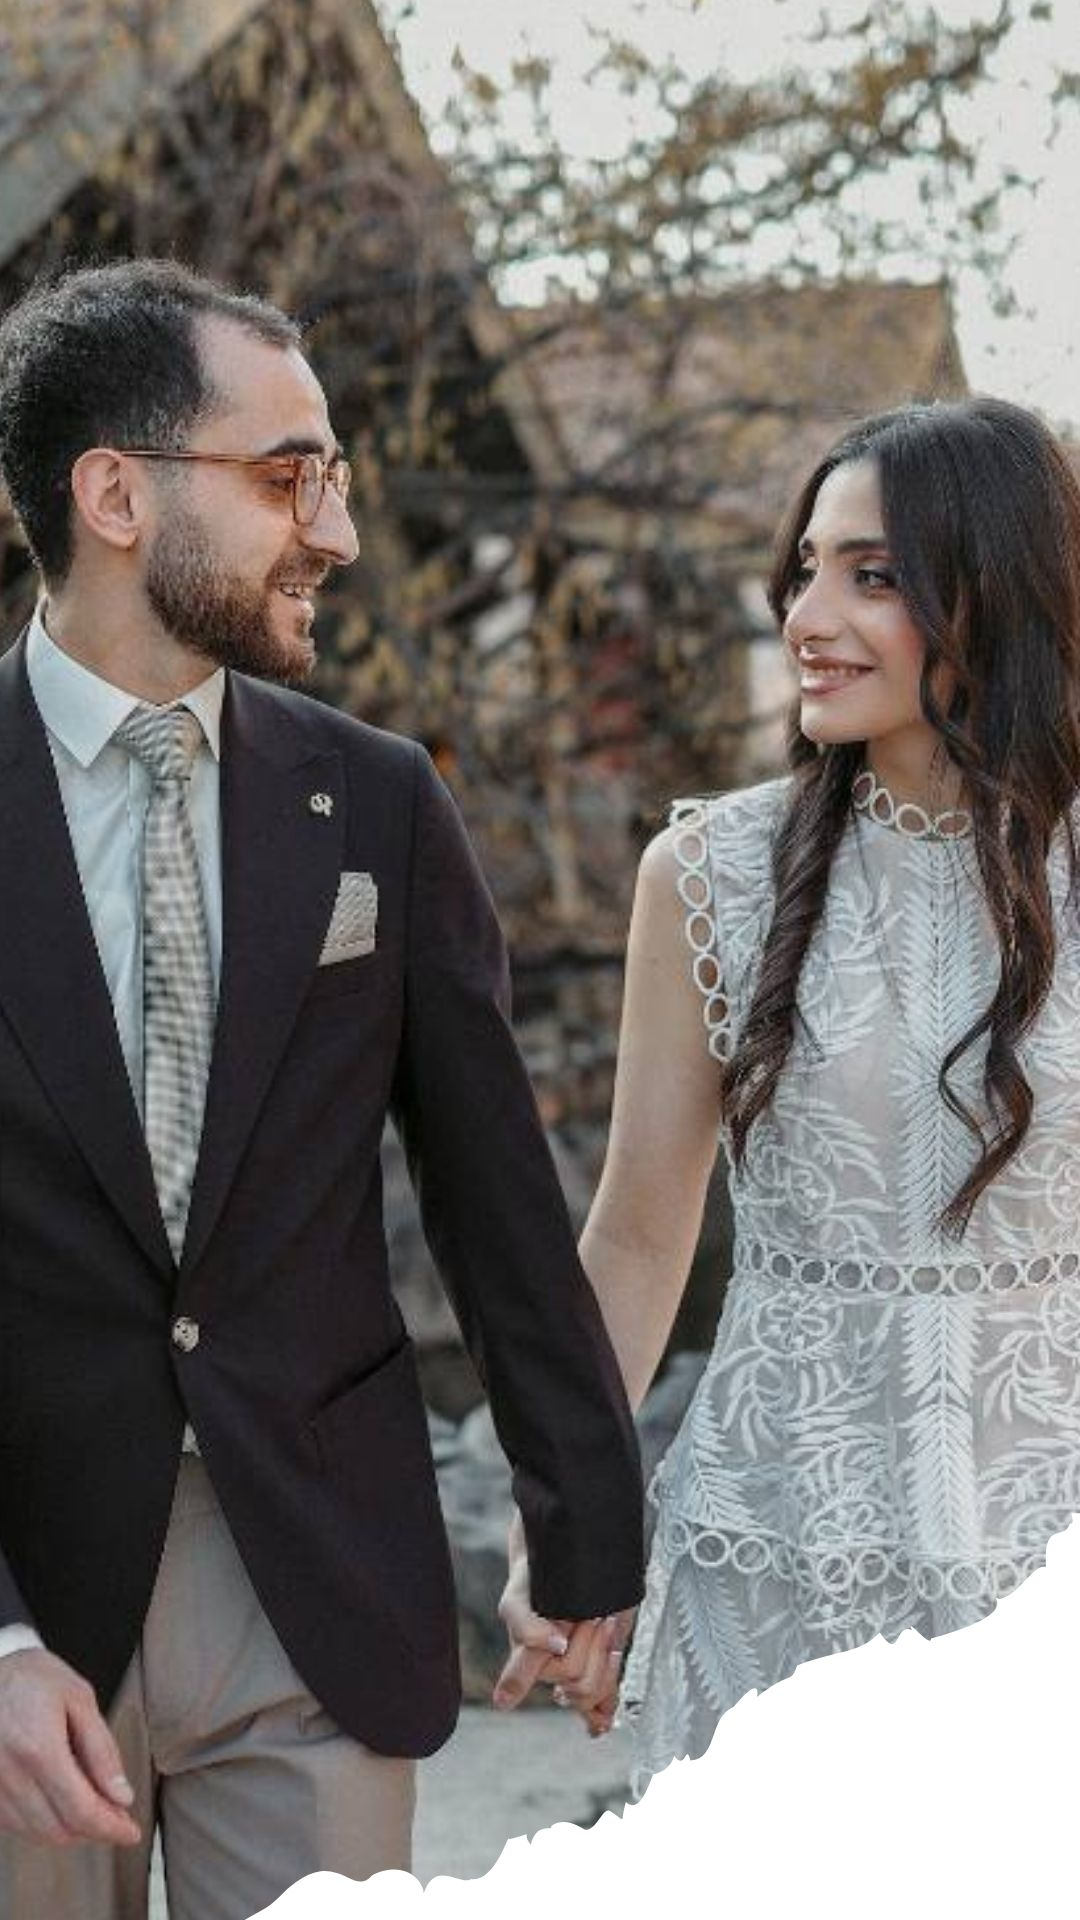
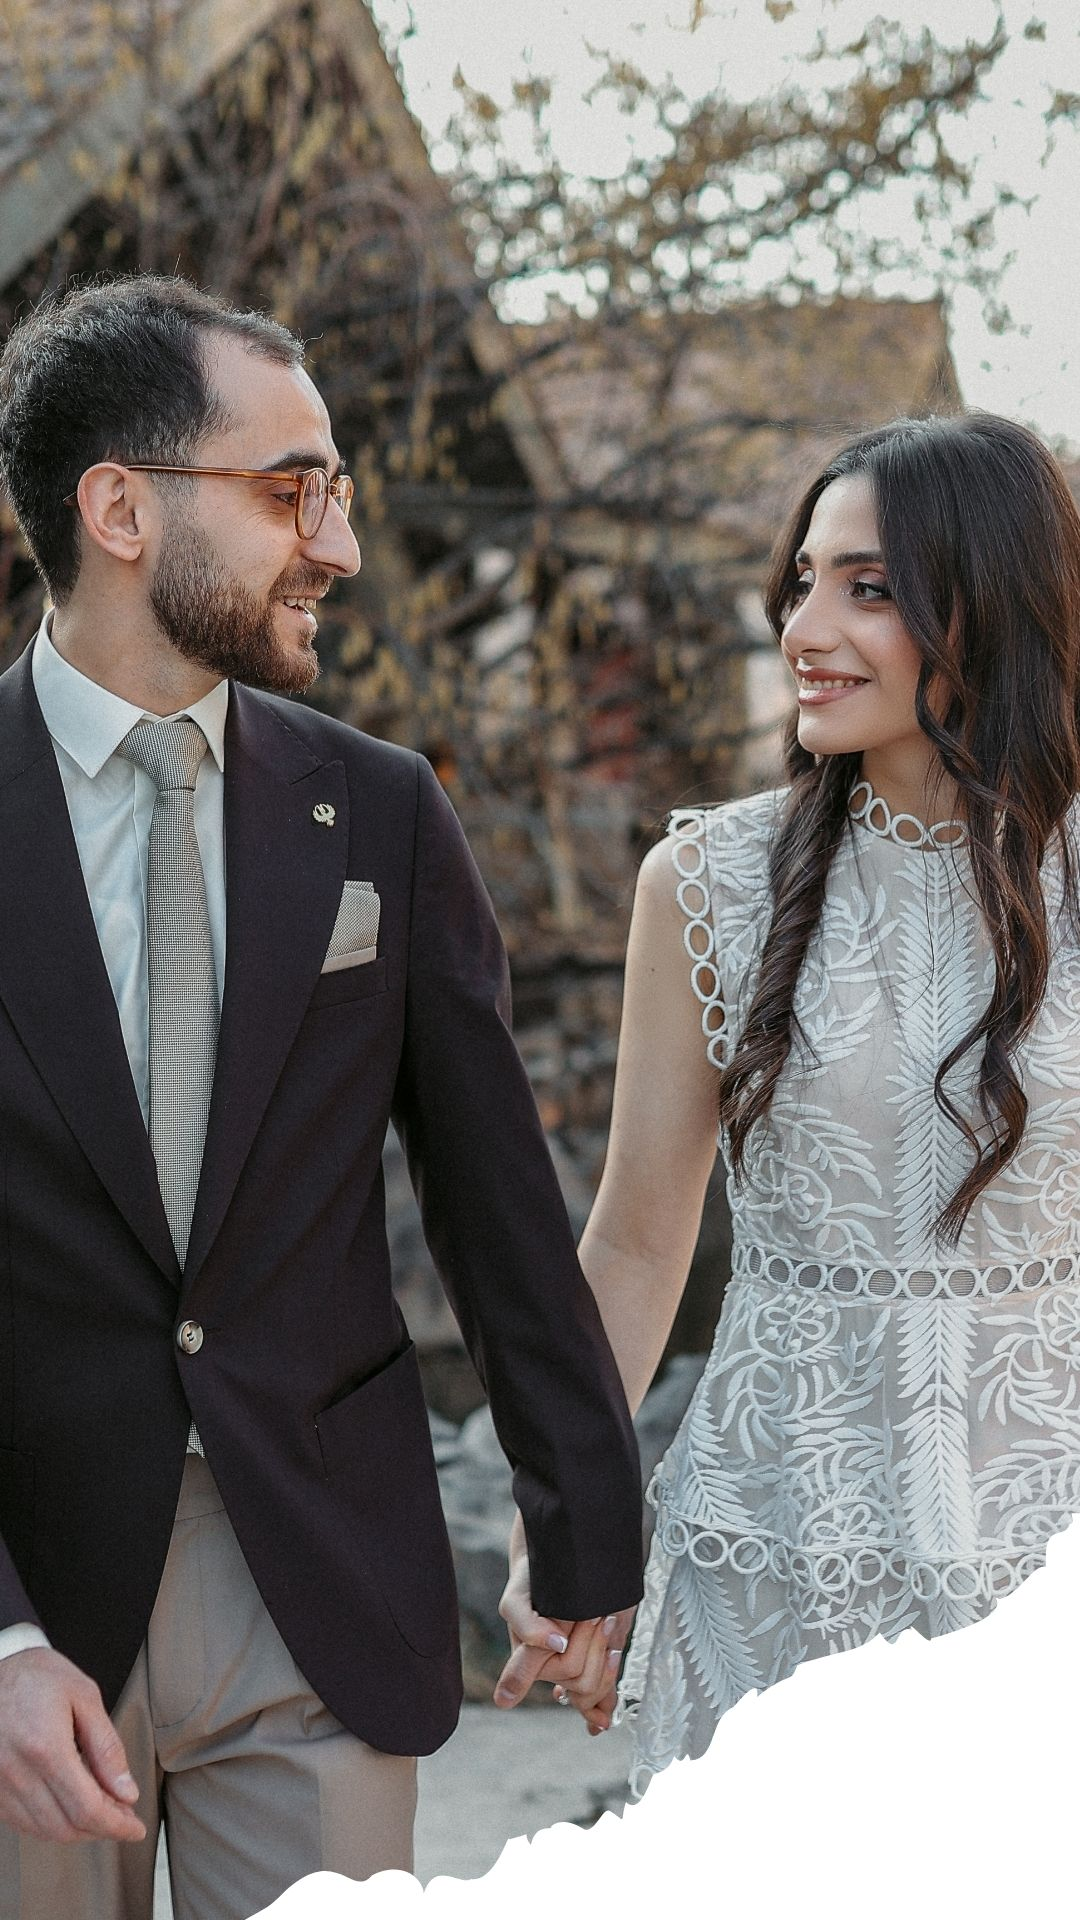
we

diff --git a/src/components/first-page/index.jsx b/src/components/first-page/index.jsx
@@ -13,8 +13,8 @@ export const FirstPage = () => {
             className="mt-7 text-[#ffff] maintext"
             style={{ textShadow: "5px 7px 9px #000" }}
           >
-            <h4>Հարսանյաց Հրավեր</h4>
-            <div data-aos="fade-up" className="text-center absolute bottom-33">
+            <div data-aos="fade-up" className="text-center absolute bottom-28">
+              <h4 style={{ fontSize: "20px" }} >Հարսանյաց Հրավեր</h4>
               <h3>Սասուն և Սուսաննա</h3>
               <h4>03.07.2026</h4>
             </div>
